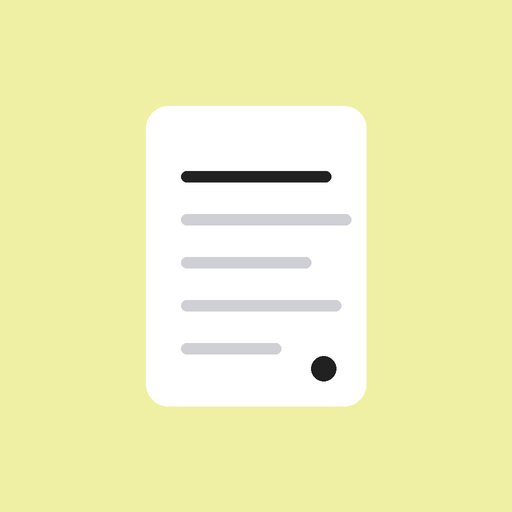
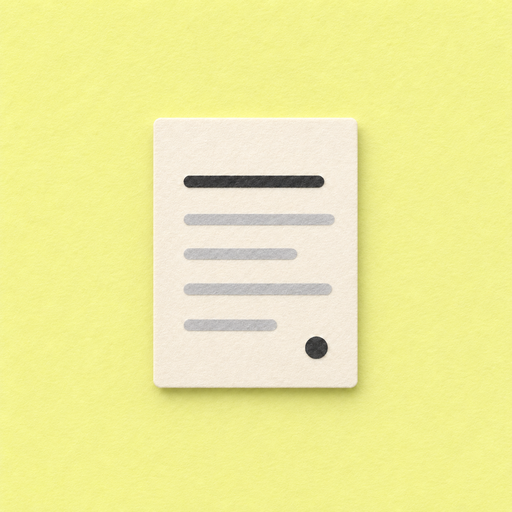
앱 아이콘 교체
Claude-Session: https://claude.ai/code/session_018NTVQ8dmicowo1FePXsR8X

diff --git a/index.html b/index.html
@@ -10,8 +10,8 @@
 <meta name="theme-color" content="#F6F5FA" media="(prefers-color-scheme: light)">
 <meta name="theme-color" content="#0E0E0F" media="(prefers-color-scheme: dark)">
 <link rel="manifest" href="manifest.webmanifest">
-<link rel="apple-touch-icon" href="icons/icon-180.png">
-<link rel="icon" href="icons/icon-192.png">
+<link rel="apple-touch-icon" href="icons/icon-180.png?v=2">
+<link rel="icon" href="icons/icon-192.png?v=2">
 <style>:root{color-scheme:light;padding-top:env(safe-area-inset-top,0px);padding-bottom:env(safe-area-inset-bottom,0px)}body{margin:0}img{max-width:100%}[hidden]{display:none!important}</style>
 <title>하루 한 장</title>
 <meta name="claude:viewport-fit-sides" content="cover">

diff --git a/sw.js b/sw.js
@@ -1,6 +1,6 @@
 /* Keeps the app usable offline. The page itself is fetched fresh when online (so updates show up),
    everything else from this site is served from the cache first. */
-const CACHE = 'haru-v7';
+const CACHE = 'haru-v8';
 const CORE = ['./', 'index.html', 'manifest.webmanifest', 'icons/icon-180.png', 'icons/icon-192.png'];
 self.addEventListener('install', e => { e.waitUntil(caches.open(CACHE).then(c => c.addAll(CORE)).then(() => self.skipWaiting())); });
 self.addEventListener('activate', e => {
